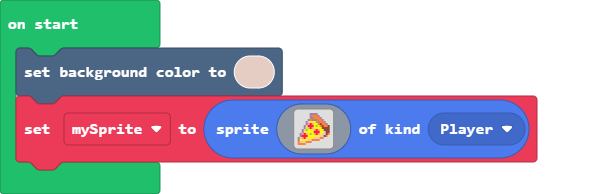
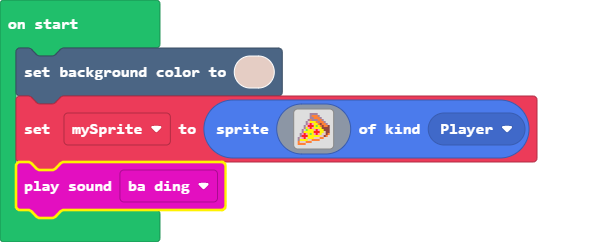
Update main.blocks, main.ts

diff --git a/main.ts b/main.ts
@@ -17,3 +17,4 @@ let mySprite = sprites.create(img`
     4 d d d 4 4 4 . . . . . . . . . 
     4 4 4 4 . . . . . . . . . . . . 
     `, SpriteKind.Player)
+music.baDing.play()
